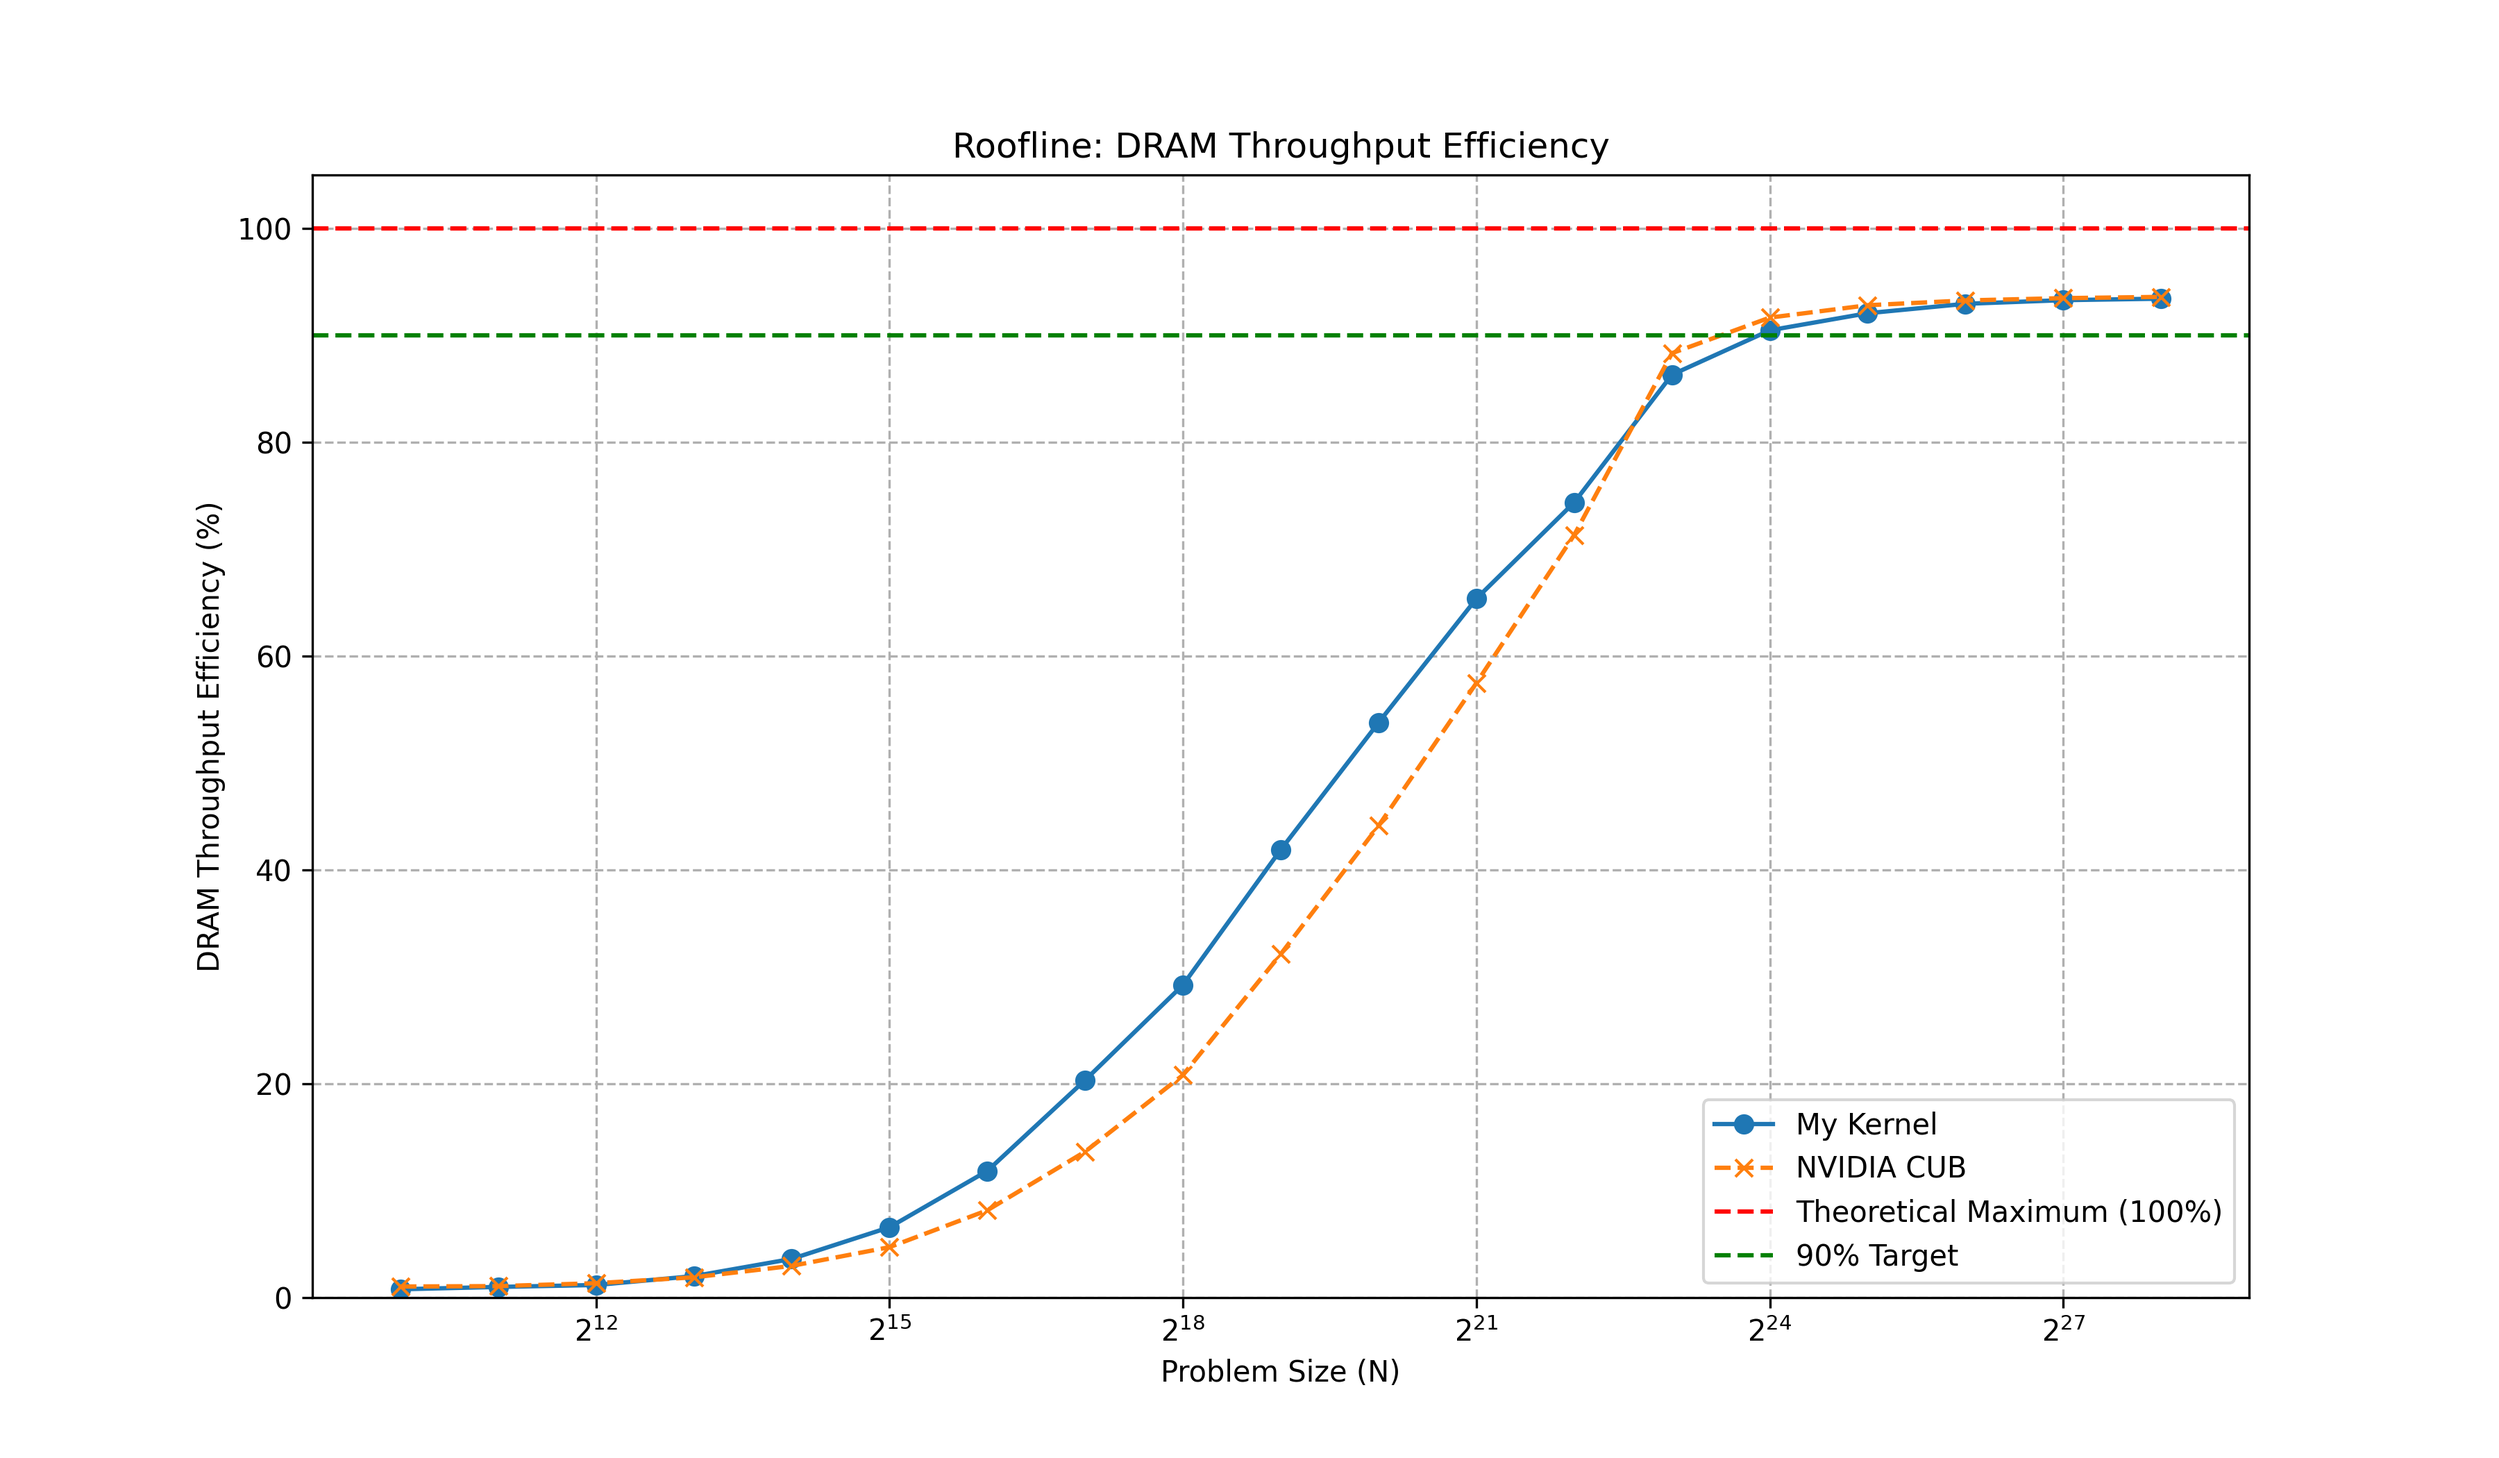
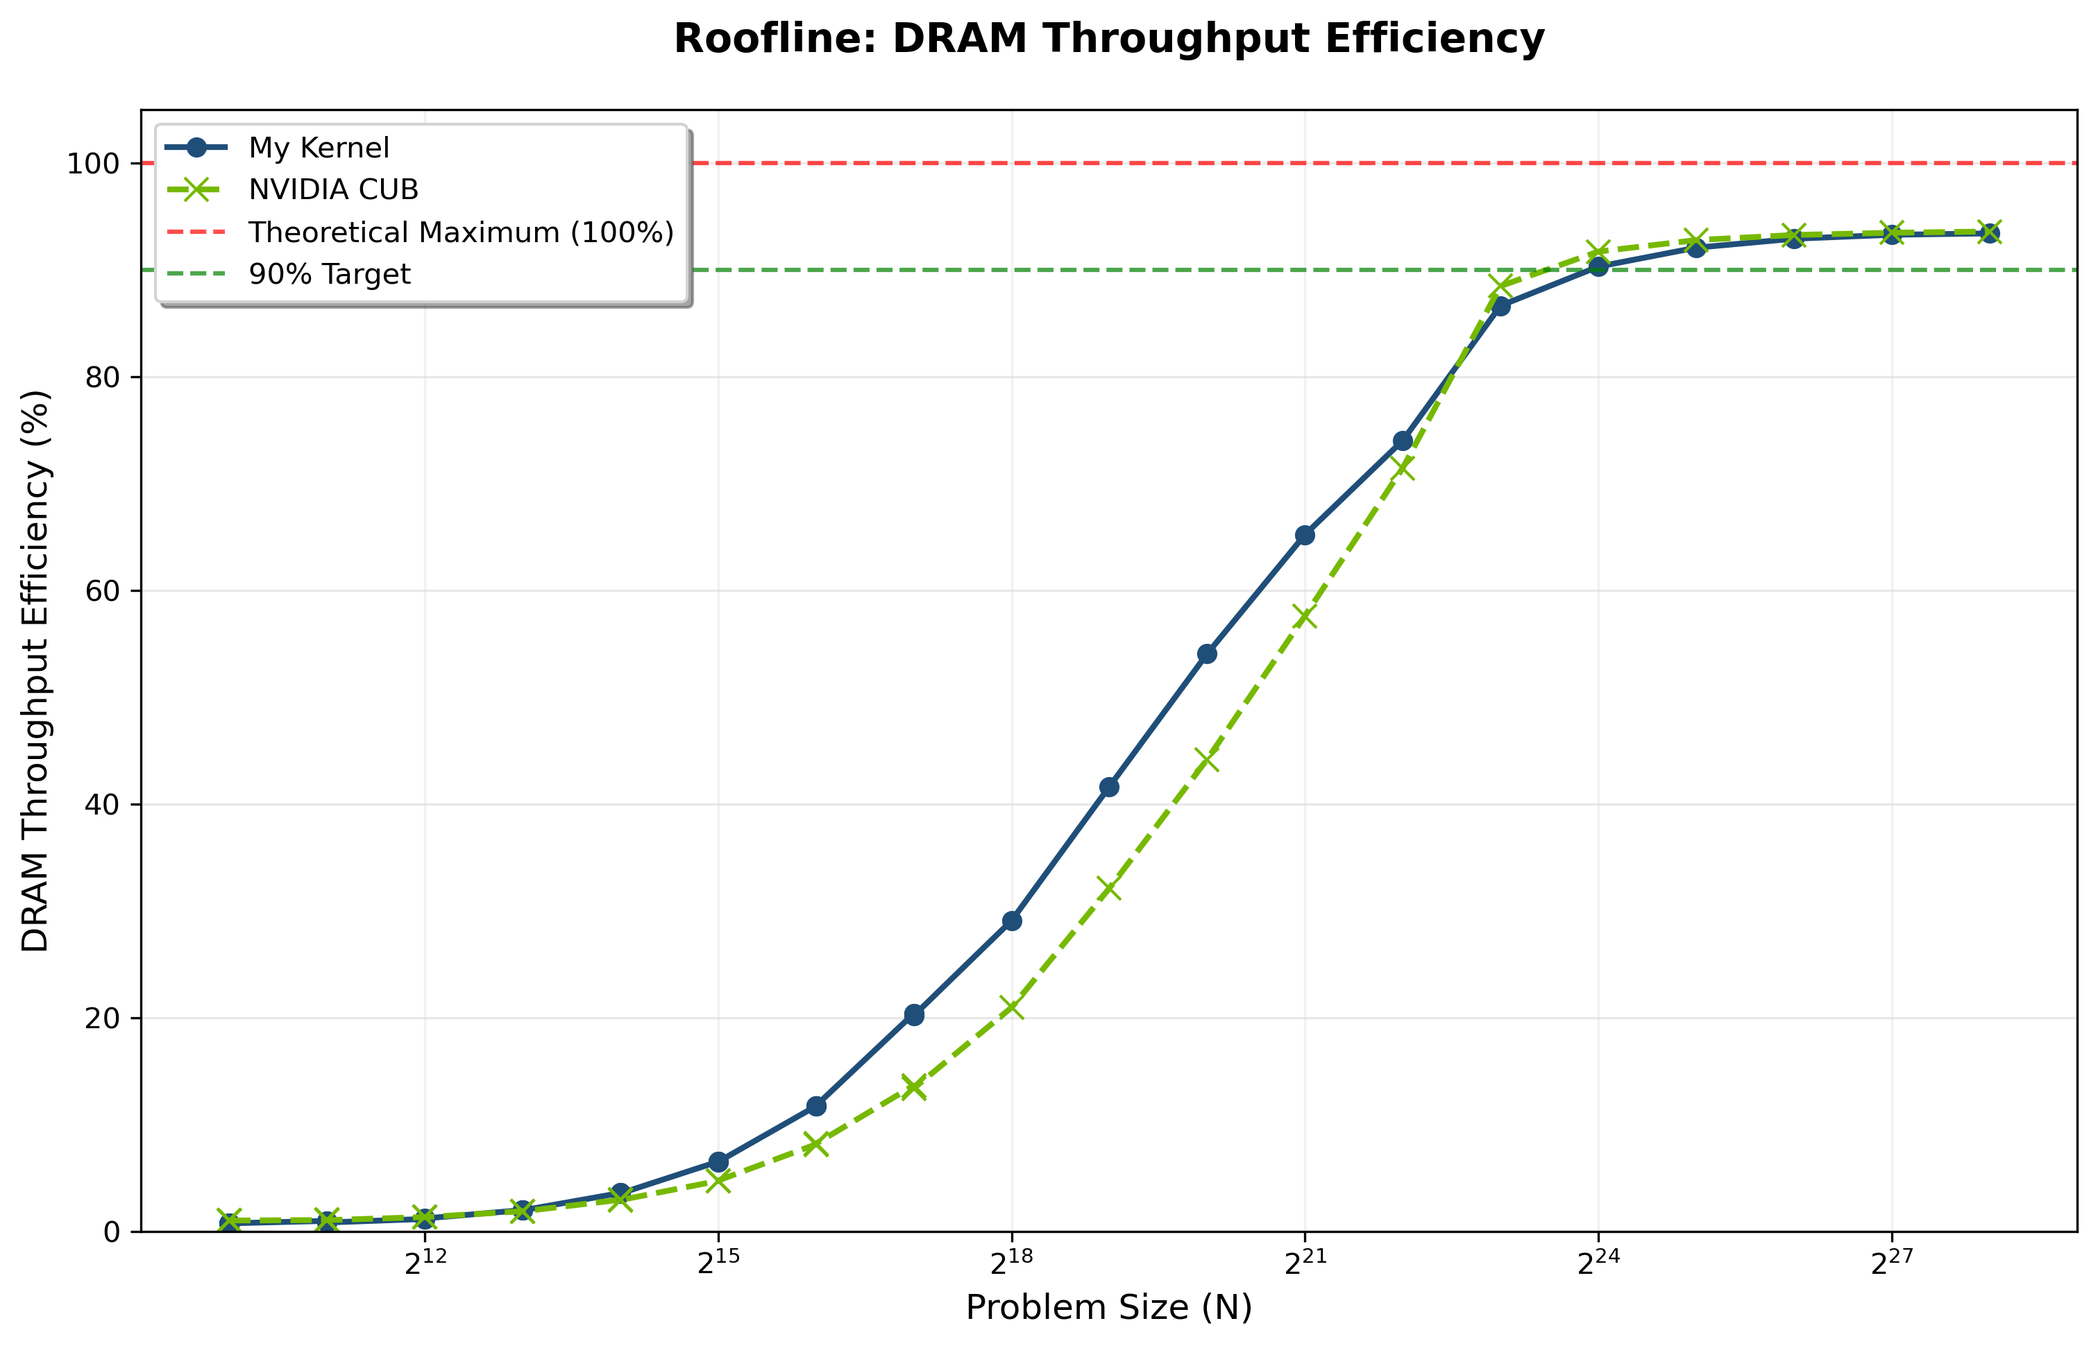
Add efficiency bar chart visualization and update roofline chart styling

diff --git a/visualization/visualize_benchmark.py b/visualization/visualize_benchmark.py
@@ -2,6 +2,7 @@ import subprocess
 import re
 import pandas as pd
 import matplotlib.pyplot as plt
+import numpy as np
 import os
 import argparse
 
@@ -90,23 +91,106 @@ def plot_benchmark(df):
     plt.close()
 
 def plot_roofline(df):
-    plt.figure(figsize=(12, 7))
-    plt.plot(df['N'], df['My_Kernel_Efficiency'], marker='o', linestyle='-', label='My Kernel')
-    plt.plot(df['N'], df['CUB_Kernel_Efficiency'], marker='x', linestyle='--', label='NVIDIA CUB')
+    fig, ax = plt.subplots(figsize=(12, 7))
+    
+    my_color = '#1F4E79'
+    cub_color = '#76b900'
+    
+    ax.plot(df['N'], df['My_Kernel_Efficiency'], marker='o', linestyle='-', 
+            label='My Kernel', color=my_color, linewidth=2, markersize=6)
+    ax.plot(df['N'], df['CUB_Kernel_Efficiency'], marker='x', linestyle='--', 
+            label='NVIDIA CUB', color=cub_color, linewidth=2, markersize=8)
 
-    plt.xscale('log', base=2)
-    plt.xlabel('Problem Size (N)')
-    plt.ylabel('DRAM Throughput Efficiency (%)')
-    plt.title('Roofline: DRAM Throughput Efficiency')
-    plt.ylim(0, 105)
-    plt.axhline(100, color='r', linestyle='--', label='Theoretical Maximum (100%)')
-    plt.axhline(90, color='g', linestyle='--', label='90% Target')
-    plt.legend()
-    plt.grid(True, which='both', linestyle='--')
+    ax.set_xscale('log', base=2)
+    ax.set_xlabel('Problem Size (N)', fontsize=12)
+    ax.set_ylabel('DRAM Throughput Efficiency (%)', fontsize=12)
+    ax.set_title('Roofline: DRAM Throughput Efficiency', fontsize=14, fontweight='bold', pad=20)
+    ax.set_ylim(0, 105)
+    
+    ax.axhline(100, color='r', linestyle='--', alpha=0.7, linewidth=1.5, label='Theoretical Maximum (100%)')
+    ax.axhline(90, color='green', linestyle='--', alpha=0.7, linewidth=1.5, label='90% Target')
+    
+    ax.grid(True, axis='y', linestyle='-', alpha=0.5, color='lightgray', zorder=0)
+    ax.set_axisbelow(True)
+    ax.grid(True, axis='x', linestyle='-', alpha=0.3, color='lightgray', which='major')
+    
+    ax.legend(loc='upper left', frameon=True, fancybox=True, shadow=True, 
+              facecolor='white', edgecolor='lightgray',)
     
     output_png = 'visualization/roofline_chart.png'
-    plt.savefig(output_png, dpi=300)
+    plt.savefig(output_png, dpi=300, bbox_inches='tight')
     print(f"Roofline chart saved to {output_png}")
+    plt.close()
+
+def plot_efficiency_bar_chart(df):
+    key_sizes = [2**14, 2**16, 2**18, 2**20, 2**22, 2**24, 2**26]
+    key_labels = ['2¹⁴', '2¹⁶', '2¹⁸', '2²⁰', '2²²', '2²⁴', '2²⁶']
+    
+    filtered_df = df[df['N'].isin(key_sizes)].copy()
+    filtered_df = filtered_df.sort_values('N')
+    
+    if len(filtered_df) < len(key_sizes):
+        print(f"Warning: Only found {len(filtered_df)} out of {len(key_sizes)} key problem sizes for bar chart")
+    
+    my_efficiencies = filtered_df['My_Kernel_Efficiency'].values
+    cub_efficiencies = filtered_df['CUB_Kernel_Efficiency'].values
+    
+    fig, ax = plt.subplots(figsize=(10, 6))
+    fig.subplots_adjust(left=0.1, right=0.9, top=0.9, bottom=0.1)
+    
+    x_positions = np.arange(len(filtered_df))
+    bar_width = 0.35
+    offset = 0.175
+    
+    my_color = '#1F4E79'
+    cub_color = '#76b900'
+    
+    bars1 = ax.bar(x_positions - offset, my_efficiencies, bar_width, 
+                   label='My Kernel', color=my_color, edgecolor='black', linewidth=0.8)
+    bars2 = ax.bar(x_positions + offset, cub_efficiencies, bar_width, 
+                   label='NVIDIA CUB', color=cub_color, edgecolor='black', linewidth=0.8)
+
+    def add_value_labels(bars, values):
+        for bar, value in zip(bars, values):
+            height = bar.get_height()
+            fontsize = 9
+            offset = 1.5
+            
+            ax.text(bar.get_x() + bar.get_width()/2. + 0.05, height + offset,
+                   f'{value:.0f}%', ha='center', va='bottom', 
+                   fontsize=fontsize, fontweight='bold', color='black')
+    
+    add_value_labels(bars1, my_efficiencies)
+    add_value_labels(bars2, cub_efficiencies)
+    
+    ax.set_ylabel('DRAM Throughput Efficiency (%)', fontsize=12)
+    ax.set_ylim(0, 100)
+    ax.set_yticks(np.arange(0, 101, 10))
+
+    ax.grid(True, axis='y', linestyle='-', alpha=0.5, color='lightgray', zorder=0)
+    ax.set_axisbelow(True)
+    
+    ax.set_xlabel('Problem Size (N)', fontsize=12)
+    ax.set_xticks(x_positions)
+    actual_labels = []
+    for size in filtered_df['N']:
+        if size in [2**14, 2**16, 2**18, 2**20, 2**22, 2**24, 2**26]:
+            idx = key_sizes.index(size)
+            actual_labels.append(key_labels[idx])
+        else:
+            actual_labels.append(f'2^{int(np.log2(size))}')
+    
+    ax.set_xticklabels(actual_labels, fontsize=10, rotation=0)
+    
+    ax.axhline(90, color='green', linestyle='--', alpha=0.7, linewidth=1.5, label='90% Target')
+    
+    ax.set_title('Efficiency Comparison at Key Problem Sizes', fontsize=14, fontweight='bold', pad=20)
+    ax.legend(loc='upper left', frameon=True, fancybox=True, shadow=True, 
+              facecolor='white', edgecolor='lightgray')
+    
+    output_png = 'visualization/efficiency_bar_chart.png'
+    plt.savefig(output_png, dpi=300, bbox_inches='tight')
+    print(f"Efficiency bar chart saved to {output_png}")
     plt.close()
 
 def main():
@@ -156,6 +240,7 @@ def main():
 
     plot_benchmark(df)
     plot_roofline(df)
+    plot_efficiency_bar_chart(df)
 
 if __name__ == "__main__":
     main()
